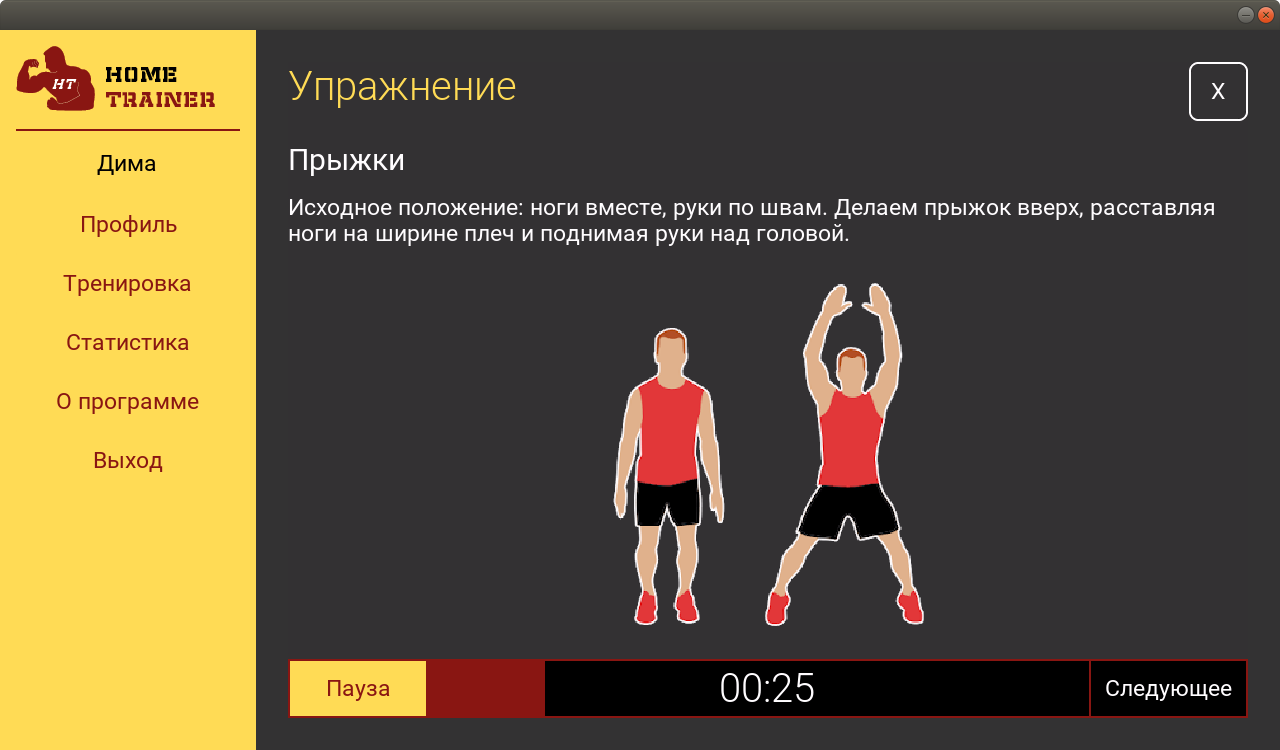
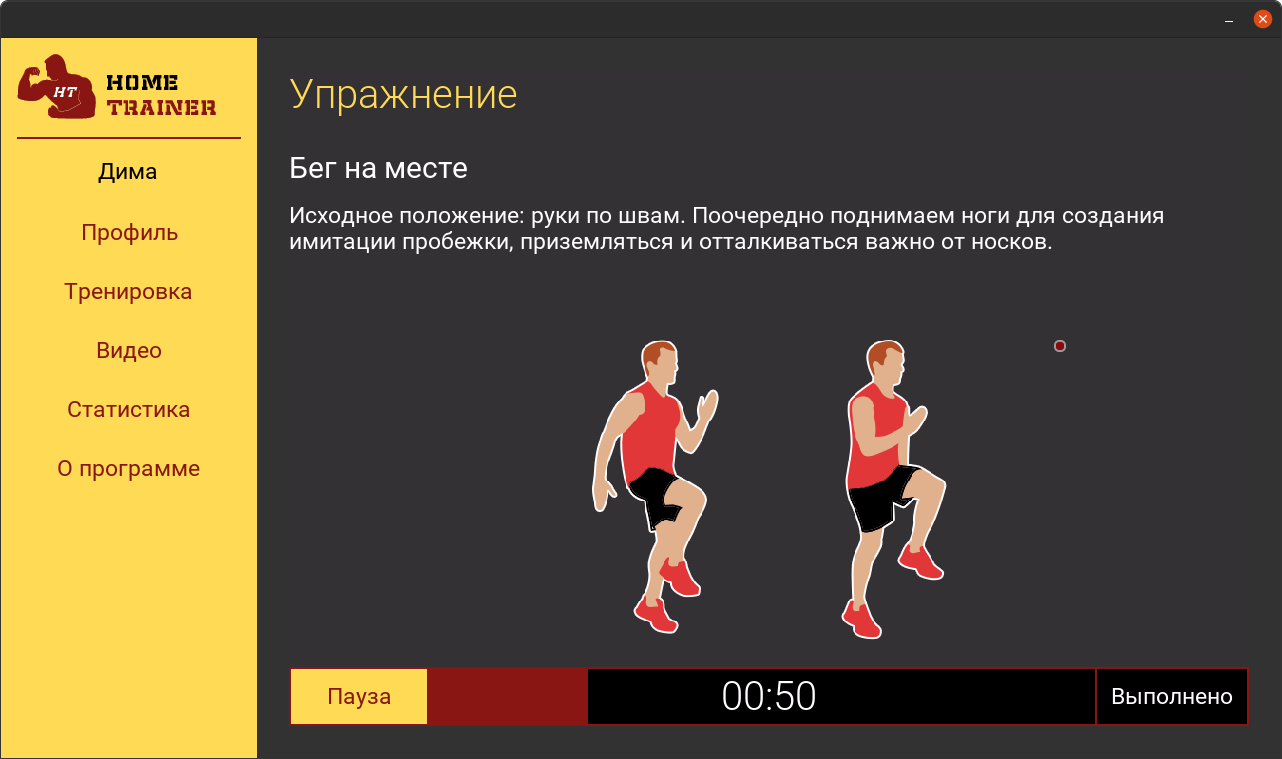
update

diff --git a/Video.qml b/Video.qml
@@ -1,0 +1,52 @@
+// Copyright (c) 2020, Tochka nevozvrata
+// Permission to use, copy, modify, and/or distribute this software for any purpose with or without fee is hereby granted,
+// provided that the above copyright notice and this permission notice appear in all copies.
+// THE SOFTWARE IS PROVIDED "AS IS" AND THE AUTHOR DISCLAIMS ALL WARRANTIES WITH REGARD TO THIS SOFTWARE INCLUDING ALL IMPLIED WARRANTIES OF MERCHANTABILITY AND FITNESS.
+// IN NO EVENT SHALL THE AUTHOR BE LIABLE FOR ANY SPECIAL, DIRECT, INDIRECT, OR CONSEQUENTIAL DAMAGES OR ANY DAMAGES WHATSOEVER RESULTING FROM LOSS OF USE, DATA OR PROFITS,
+// WHETHER IN AN ACTION OF CONTRACT, NEGLIGENCE OR OTHER TORTIOUS ACTION, ARISING OUT OF OR IN CONNECTION WITH THE USE OR PERFORMANCE OF THIS SOFTWARE.
+
+Rectangle {
+
+    signal playerStopped;
+
+    focus: true;
+
+    TitleText {
+        id: header;
+        color: engine.colors.headerText;
+        text: tr("Видео");
+    }
+
+    VideoPlayer {
+        id: htPlayer;
+
+        anchors.top: header.bottom;
+        anchors.topMargin: engine.margin;
+        anchors.left: parent.left;
+        anchors.right: parent.right;
+        anchors.bottom: parent.bottom;
+
+        visible: false;
+
+        onBackPressed: {
+            this.abort();
+            this.visible = false;
+            log("hide");
+            parent.playerStopped();
+        }
+
+        onFinished: {
+            this.visible = false;
+            log("hide");
+            parent.playerStopped();
+        }
+    }
+
+    onActiveFocusChanged: {
+        if(this.activeFocus) {
+            htPlayer.visible = true;
+            htPlayer.title = engine.videos[1].title;
+            htPlayer.playVideoById(engine.videos[1].url);
+        }
+    }
+}

diff --git a/main.qml b/main.qml
@@ -9,6 +9,7 @@ import "Sidebar.qml";
 
 import "Profile.qml";
 import "Training.qml";
+import "Video.qml";
 import "Statistics.qml";
 import "About.qml";
 
@@ -20,11 +21,12 @@ import "controls/Edit.qml";
 import "controls/Button.qml";
 import "controls/Chooser.qml";
 import "controls/ProgressBar.qml";
+import "controls/VideoPlayer.qml";
 
 import "js/engine.js" as engine;
 
 Application {
-    id: hometrainer;
+    id: htApp;
 
     color: engine.colors.background;
 
@@ -114,7 +116,19 @@ Application {
                 }
                 exercise.setExercise(this.exerciseIndex++);
             }
-        }        
+        }   
+        Video { 
+            id: video;
+            anchors.fill: parent;
+            color: parent.color;
+            property var tag: "video";
+            onPlayerStopped: {
+                sidebar.setFocus();
+            }
+            onBackPressed: {
+                sidebar.setFocus();
+            }
+        }     
         Statistics { 
             id: statistics;
             anchors.fill: parent;

diff --git a/controls/VideoPlayer.qml b/controls/VideoPlayer.qml
@@ -1,0 +1,20 @@
+// Copyright (c) 2020, Tochka nevozvrata
+// Permission to use, copy, modify, and/or distribute this software for any purpose with or without fee is hereby granted,
+// provided that the above copyright notice and this permission notice appear in all copies.
+// THE SOFTWARE IS PROVIDED "AS IS" AND THE AUTHOR DISCLAIMS ALL WARRANTIES WITH REGARD TO THIS SOFTWARE INCLUDING ALL IMPLIED WARRANTIES OF MERCHANTABILITY AND FITNESS.
+// IN NO EVENT SHALL THE AUTHOR BE LIABLE FOR ANY SPECIAL, DIRECT, INDIRECT, OR CONSEQUENTIAL DAMAGES OR ANY DAMAGES WHATSOEVER RESULTING FROM LOSS OF USE, DATA OR PROFITS,
+// WHETHER IN AN ACTION OF CONTRACT, NEGLIGENCE OR OTHER TORTIOUS ACTION, ARISING OUT OF OR IN CONNECTION WITH THE USE OR PERFORMANCE OF THIS SOFTWARE.
+
+import controls.Player;
+
+Player {
+    focus: true;
+
+    isFullscreen: true;
+
+    function playVideoById(url) {
+        this.abort();
+        this.playUrl(url);
+        this.setFocus();
+    }
+}

diff --git a/js/engine.js b/js/engine.js
@@ -103,7 +103,7 @@ this.validateText = (text, validateChars) => {
 }
 
 //constants
-this.appPath = "apps/hometrainer/";
+this.appPath = "apps/HomeTrainer/";
 this.resourcesPath = this.appPath + "resources/";
 
 this.colors = {
@@ -315,10 +315,12 @@ this.genderItems;
 this.levelItems;
 this.exerciseItems;
 this.notifications;
+this.videos;
 this.loadData = (data) => {
     this.menuItems = data["menu"];
     this.genderItems = data["genders"];
     this.levelItems = data["levels"];
     this.exerciseItems = data["exercises"];
     this.notifications = data["notifications"];
+    this.videos = data["videos"];
 }

diff --git a/README.md b/README.md
@@ -9,6 +9,8 @@
 
 Приложение позволяет создавать до 7 профилей - для каждого члена семьи. При регистрации профиля необходимо указать личные данные, которые в дальнейшем Вы можете редактировать во вкладке «Профиль».
 
+![Profile](/resources/screen/auth.png)
+
 Подготовленные планы тренировок вносят экономию в Ваше время, а инструкция выполнения упражнений позволит сделать их без особого труда.
 
 ## Структура ##
@@ -53,6 +55,12 @@
 В случае прохождения тренировки вместо кнопки "Выполнить" в панели управления будет находиться кнопка "Следующее", позволяющая переходить к следующему упражнению, или кнопка "Завершить", если упражнение последнее в тренировке.
 
 ![Profile](/resources/screen/exercise.png)
+
+### Видео ###
+
+Содержит видео для тенировок.
+
+![Profile](/resources/screen/video.png)
 
 ### Статистика ###
 
